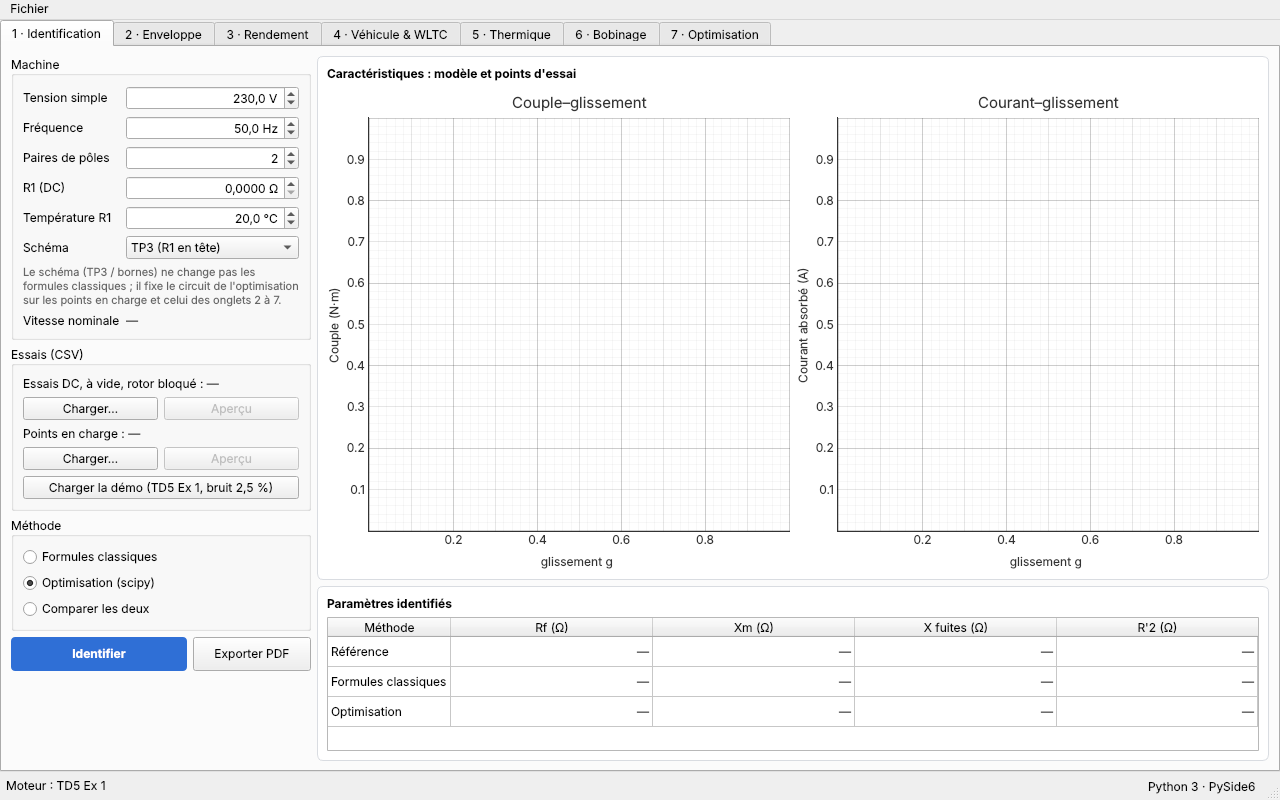
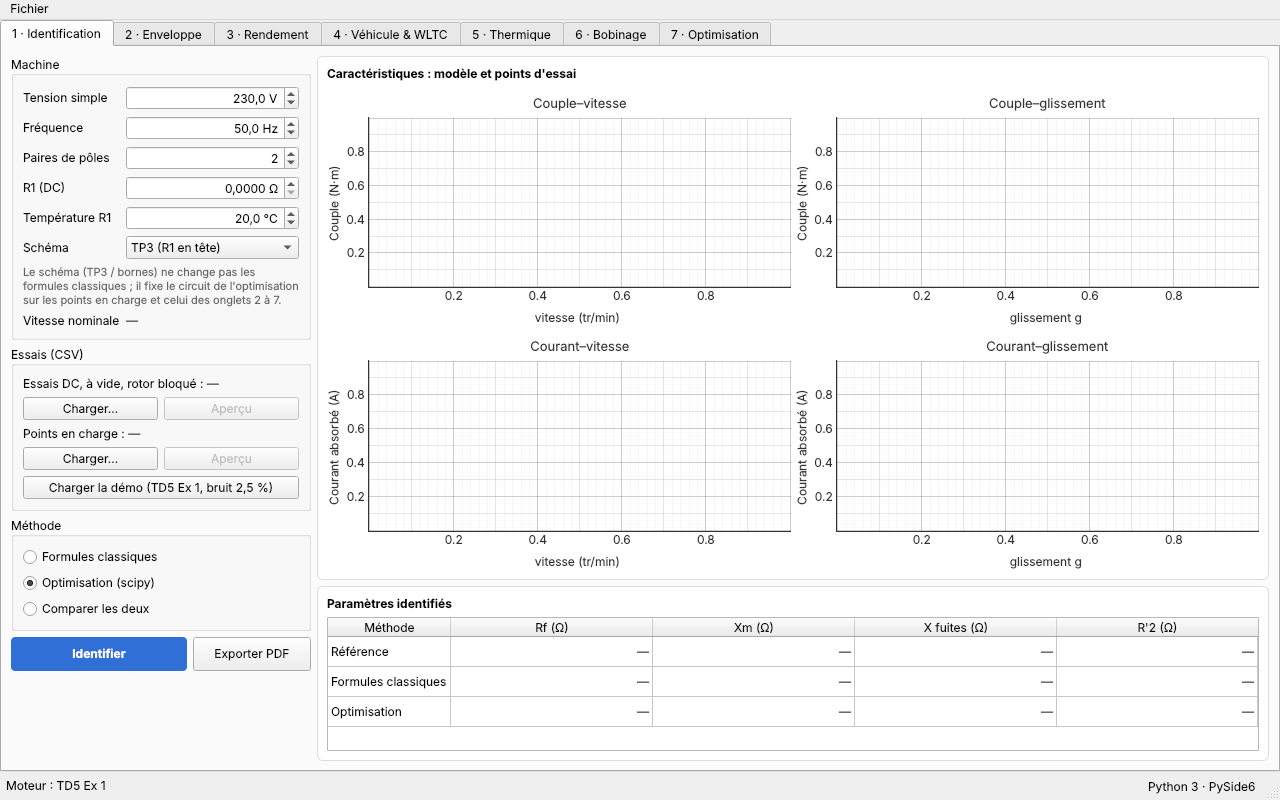
Tab 1: 2×2 plot grid — torque and current vs speed and vs slip
Top row Couple–vitesse | Couple–glissement, bottom row Courant–vitesse |
Courant–glissement. Model curves over g ∈ (0, 1] (circuit.torque,
stator_current), speed from circuit.mechanical_speed converted to tr/min at the
GUI edge; measured points on all four, each at its own f; C_max and g_c from
circuit.breakdown on the torque–slip plot, with headroom so the label is not
clipped; one legend shared by the four plots in the card header; démo chip kept.

Test: four plots at their grid positions, model curves equal the core, point
speeds equal mechanical_speed within 1e-9, labels only on torque–slip, shared
legend. 00_fenetre.png and 01_identification.png recaptured; README, user guide
and demo script describe the grid.

Claude-Session: https://claude.ai/code/session_0145D8UjuNLDpEiuoMGzf988

diff --git a/src/evlab/gui/tab_identification.py b/src/evlab/gui/tab_identification.py
@@ -220,22 +220,36 @@ class IdentificationTab(QWidget):
         self.radios["fit"].setChecked(True)
         return box
 
+    PLOTS = (  # key, title, x label, y label, grid row, grid column
+        ("torque_speed", "Couple–vitesse", "vitesse (tr/min)", "Couple (N·m)", 0, 0),
+        ("torque_slip", "Couple–glissement", "glissement g", "Couple (N·m)", 0, 1),
+        ("current_speed", "Courant–vitesse", "vitesse (tr/min)", "Courant absorbé (A)", 1, 0),
+        ("current_slip", "Courant–glissement", "glissement g", "Courant absorbé (A)", 1, 1),
+    )
+
     def _plot_card(self) -> QFrame:
         card, lay, head = _card("Caractéristiques : modèle et points d'essai")
+        self.lbl_legend = QLabel("")  # one legend shared by the four plots
+        self.lbl_legend.setTextFormat(Qt.TextFormat.RichText)
+        head.insertWidget(1, self.lbl_legend)
         self.chip_demo = chip("points synthétiques (démo)")
         self.chip_demo.setVisible(False)
         head.addWidget(self.chip_demo)
         pg.setConfigOptions(antialias=True, background="w", foreground="#333")
-        plots = QHBoxLayout()
-        self.plot_torque = pg.PlotWidget(title="Couple–glissement")
-        self.plot_current = pg.PlotWidget(title="Courant–glissement")
-        for pw, ylab in ((self.plot_torque, "Couple (N·m)"), (self.plot_current, "Courant absorbé (A)")):
-            pw.setLabel("bottom", "glissement g")
+        self.plot_grid = QGridLayout()
+        self.plot_grid.setSpacing(4)
+        self.plots: dict[str, pg.PlotWidget] = {}
+        for key, title, xlab, ylab, row, col in self.PLOTS:
+            pw = pg.PlotWidget()
+            pw.setTitle(title, size="10pt")
+            pw.setLabel("bottom", xlab)
             pw.setLabel("left", ylab)
             pw.showGrid(x=True, y=True, alpha=0.25)
-            pw.addLegend(offset=(-10, -10))  # bottom right: free of curves and annotation
-            plots.addWidget(pw)
-        lay.addLayout(plots)
+            self.plots[key] = pw
+            self.plot_grid.addWidget(pw, row, col)
+        self.plot_torque = self.plots["torque_slip"]
+        self.plot_current = self.plots["current_slip"]
+        lay.addLayout(self.plot_grid)
         return card
 
     def _table_card(self) -> QFrame:
@@ -489,17 +503,24 @@ class IdentificationTab(QWidget):
         return "Formules classiques (TP3 / TD5)"
 
     def _refresh_plots(self) -> None:
-        for pw in (self.plot_torque, self.plot_current):
+        for pw in self.plots.values():
             pw.clear()
+        legend = []
         res = self.result
+        t_top = 0.0
         if res is not None:
-            g = np.linspace(0.0, 1.0, 401)
+            g = np.linspace(0.0, 1.0, 401)[1:]  # g ∈ (0, 1]: motoring, from near no-load to standstill
             for row in res.shown:
                 m = res.motor(row)
                 pen = pg.mkPen(COLORS[row], width=2)
                 name = f"modèle ({ROW_LABELS[row].lower()})"
-                self.plot_torque.plot(g, circuit.torque(m, g), pen=pen, name=name)
-                self.plot_current.plot(g, circuit.stator_current(m, g), pen=pen, name=name)
+                n = np.asarray(circuit.mechanical_speed(m, g)) * RAD_S_TO_RPM
+                t, i = circuit.torque(m, g), circuit.stator_current(m, g)
+                t_top = max(t_top, float(np.max(t)))
+                for key, x, y in (("torque_speed", n, t), ("torque_slip", g, t),
+                                  ("current_speed", n, i), ("current_slip", g, i)):
+                    self.plots[key].plot(x, y, pen=pen, name=name)
+                legend.append(f"<span style='color:{COLORS[row]}'>━━</span> {name}")
             g_c, t_max = circuit.breakdown(res.published)
             text = pg.TextItem(f"C_max = {fr(t_max, 4)} N·m\ng_c = {fr_fixed(g_c, 2)}",
                                color="#333", anchor=(-0.1, 1.1))
@@ -510,10 +531,27 @@ class IdentificationTab(QWidget):
         if self.points_file is not None:
             pts = self.points_file.points
             demo = " (démo)" if self.points_file.is_demo else ""
-            kw = dict(pen=None, symbol="o", symbolSize=7, symbolBrush=None,
-                      symbolPen=pg.mkPen(COLORS["points"], width=1.5), name=f"points d'essai{demo}")
-            self.plot_torque.plot([p.slip for p in pts], [p.torque for p in pts], **kw)
-            self.plot_current.plot([p.slip for p in pts], [p.i_line for p in pts], **kw)
+            name = f"points d'essai{demo}"
+            kw = dict(pen=None, symbol="o", symbolSize=6, symbolBrush=None,
+                      symbolPen=pg.mkPen(COLORS["points"], width=1.5), name=name)
+            m = res.published if res is not None else self._plate_motor()
+            g = [p.slip for p in pts]
+            n = [float(circuit.mechanical_speed(m, p.slip, f=p.f)) * RAD_S_TO_RPM for p in pts]
+            t, i = [p.torque for p in pts], [p.i_line for p in pts]
+            for key, x, y in (("torque_speed", n, t), ("torque_slip", g, t),
+                              ("current_speed", n, i), ("current_slip", g, i)):
+                self.plots[key].plot(x, y, **kw)
+            legend.append(f"<span style='color:{COLORS['points']}'>○</span> {name}")
+        self.lbl_legend.setText("&nbsp;&nbsp;&nbsp;".join(legend))
+        if t_top > 0:  # headroom above the curves for the C_max / g_c label, same scale on both torque plots
+            for key in ("torque_speed", "torque_slip"):
+                self.plots[key].setYRange(0.0, 1.35 * t_top, padding=0)
+
+    def _plate_motor(self):
+        """Session motor with the pole pairs of the Machine fields (point speeds before identification)."""
+        from dataclasses import replace
+
+        return replace(self.session.motor, pole_pairs=self.spin_p.value())
 
 
 def _name(path) -> str:

diff --git a/tests/test_gui_identification.py b/tests/test_gui_identification.py
@@ -2,12 +2,13 @@
 
 from pathlib import Path
 
+import numpy as np
 import pytest
 from PySide6.QtCore import Qt
 
 from evlab.core import circuit
 from evlab.core import identification as ident
-from evlab.gui.format import fr, fr_pct
+from evlab.gui.format import fr, fr_fixed, fr_pct
 from evlab.gui.main_window import MainWindow
 from evlab.gui.tab_identification import COLUMNS, VALUE_ROLE
 from evlab.io.loaders import load_bench_tests, load_load_points, reference_motor
@@ -219,3 +220,53 @@ def test_worker_failure_is_reported(qtbot, win, tab, monkeypatch):
 def test_fields_use_decimal_comma(tab):
     tab.load_bench_file(BENCH)
     assert "," in tab.spin_r1.text() and "." not in tab.spin_r1.text()
+
+
+# --- 2×2 plot grid: torque and current vs speed and vs slip ------------------------------
+
+def _items(pw):
+    return {c.name(): c for c in pw.getPlotItem().listDataItems()}
+
+
+def test_four_plots_in_a_two_by_two_grid(qtbot, tab):
+    from evlab.gui.tab_identification import RAD_S_TO_RPM
+
+    tab.load_bench_file(BENCH)
+    tab.load_points_file(LOAD)
+    result = _run(qtbot, tab, "both")
+    assert set(tab.plots) == {"torque_speed", "torque_slip", "current_speed", "current_slip"}
+    grid = tab.plot_grid
+    pos = {k: grid.getItemPosition(grid.indexOf(pw))[:2] for k, pw in tab.plots.items()}
+    assert pos == {"torque_speed": (0, 0), "torque_slip": (0, 1), "current_speed": (1, 0), "current_slip": (1, 1)}
+    assert tab.plot_torque is tab.plots["torque_slip"] and tab.plot_current is tab.plots["current_slip"]
+    m = result.fit.motor
+    pts = tab.points_file.points
+    for key, pw in tab.plots.items():
+        items = _items(pw)
+        assert {"modèle (formules classiques)", "modèle (optimisation)", "points d'essai (démo)"} <= set(items)
+        assert pw.getPlotItem().legend is None  # one shared legend for the four plots
+        x, y = items["modèle (optimisation)"].getData()
+        assert x.size > 100
+        g = (np.asarray(circuit.slip_from_speed(m, x / RAD_S_TO_RPM)) if key.endswith("speed") else x)
+        assert np.all((g > 0) & (g <= 1 + 1e-12))  # model over g ∈ (0, 1]
+        want = circuit.torque(m, g) if key.startswith("torque") else circuit.stator_current(m, g)
+        assert np.allclose(y, want, rtol=1e-12)
+        px, py = items["points d'essai (démo)"].getData()
+        assert len(px) == len(pts) == 12
+        if key.endswith("speed"):
+            speed = np.array([circuit.mechanical_speed(result.published, p.slip, f=p.f) for p in pts])
+            assert np.allclose(px / RAD_S_TO_RPM, speed, rtol=0, atol=1e-9)
+        else:
+            assert np.allclose(px, [p.slip for p in pts])
+        assert np.allclose(py, [p.torque if key.startswith("torque") else p.i_line for p in pts])
+    # breakdown labels on the torque–slip plot only, from circuit.breakdown
+    g_c, t_max = circuit.breakdown(result.published)
+    labels = [i for i in tab.plots["torque_slip"].getPlotItem().items if hasattr(i, "toPlainText")]
+    assert [lbl.toPlainText() for lbl in labels] == [f"C_max = {fr(t_max, 4)} N·m\ng_c = {fr_fixed(g_c, 2)}"]
+    for key in ("torque_speed", "current_speed", "current_slip"):
+        assert not [i for i in tab.plots[key].getPlotItem().items if hasattr(i, "toPlainText")]
+    legend = tab.lbl_legend.text()
+    for name in ("modèle (formules classiques)", "modèle (optimisation)", "points d'essai (démo)"):
+        assert name in legend
+    assert tab.chip_demo.isVisibleTo(tab)
+    assert tab.plots["torque_speed"].getPlotItem().getAxis("bottom").labelText == "vitesse (tr/min)"

diff --git a/docs/demo_script.md b/docs/demo_script.md
@@ -50,7 +50,9 @@ onduleur ; C_w, C_s, R_ws, R_sa ; véhicule ; cycle).
 - **Montrer** la barre d'état : « Moteur : Identification TP3 · optimisation
   (démo) ». R1 = 0,40 Ω mesurée à 20 °C (essai DC), soit 0,49 Ω à 75 °C, la
   température du bobinage pendant l'essai. Le couple maximal tombe alors à
-  C_max = 109,4 N·m (g_c = 0,48, affichés sur la courbe) : c'est la chute de tension
+  C_max = 109,4 N·m (g_c = 0,48, affichés sur la courbe couple–glissement ; les
+  deux courbes de gauche donnent le même essai en fonction de la vitesse, 900 à
+  1470 tr/min pour g = 0,02 … 0,40) : c'est la chute de tension
   dans R1.
 - **Montrer** la note sous *Schéma* : le choix TP3 / bornes ne change pas les
   formules classiques, il fixe le circuit de l'optimisation et des onglets 2 à 7.
@@ -155,4 +157,4 @@ onduleur ; C_w, C_s, R_ws, R_sa ; véhicule ; cycle).
 
 **Si une question porte sur la validation** : renvoyer au tableau « What is
 validated / what is démo » du README (circuit TD5, facteurs de bobinage,
-bilans d'énergie, comparaison avec un balayage exhaustif à 1 % près, 554 tests).
+bilans d'énergie, comparaison avec un balayage exhaustif à 1 % près, 555 tests).

diff --git a/README.md b/README.md
@@ -145,8 +145,11 @@ rated speed read from the file's nameplate), **Essais (CSV)** (bench tests and
 load points, each with a status line and a preview; "Charger la démo" loads the
 two `data/*_demo.csv` files), **Méthode** (Formules classiques, Optimisation,
 Comparer les deux), then **Identifier** and **Exporter PDF** (the whole
-session report, same as Fichier → Exporter PDF). Right: torque–slip and current–slip plots (model curves from the
-core, measured points, breakdown point; chip "points synthétiques (démo)"), and
+session report, same as Fichier → Exporter PDF). Right: a 2 × 2 grid, torque–speed | torque–slip on top and
+current–speed | current–slip below (model curves over g ∈ (0, 1] from the core, speed
+from `circuit.mechanical_speed` converted to tr/min at the GUI edge, measured points
+on all four, C_max and g_c from `circuit.breakdown` on the torque–slip plot, one
+shared legend in the card header; chip "points synthétiques (démo)"), and
 the table Référence / Formules classiques / Optimisation with error % and the
 95 % interval of the fit as tooltip.
 

diff --git a/docs/user_guide.md b/docs/user_guide.md
@@ -59,8 +59,9 @@ des essais TP3 / TD5.
 **Action** : *Identifier*. Le moteur obtenu est publié pour les onglets 2 à 7
 (le résultat de l'optimisation s'il existe, sinon celui des formules classiques).
 
-**Sorties** : courbes couple–glissement et courant–glissement (modèle et points
-d'essai), tableau Référence / Formules classiques / Optimisation avec l'écart en %
+**Sorties** : quatre courbes, couple–vitesse | couple–glissement en haut et
+courant–vitesse | courant–glissement en bas (modèle et points d'essai sur les quatre,
+C_max et g_c sur couple–glissement, légende commune en tête), tableau Référence / Formules classiques / Optimisation avec l'écart en %
 (l'infobulle donne l'intervalle de confiance à 95 % de l'optimisation).
 
 **À vérifier** : les formules classiques sous-estiment R'2 (rotor bloqué : la
